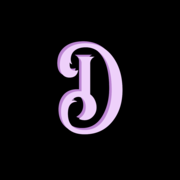
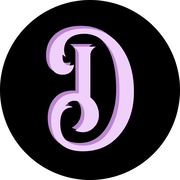
feat: improve mobile preview interactions and brand assets
- add swipe navigation to the interactive phone preview
- prevent preview steps from wrapping after completion
- refine hero overflow behavior on mobile
- replace the WhatsApp icon with a clearer brand glyph
- update the favicon set with the circular Dandy Dancers logo
- refresh the website plan to match the current product and copy

diff --git a/src/lib/components/PhonePreview.svelte b/src/lib/components/PhonePreview.svelte
@@ -6,11 +6,56 @@
     { name: 'Tito', age: 28, rating: '85%', price: '30', image: '/images/td-ia-04.png' },
     { name: 'Edu', age: 41, rating: '97%', price: '35', image: '/images/td-ia-05.png' }
   ];
-  function nextStep() { activeStep = (activeStep + 1) % copy.steps.length; }
+  let pointerStartX = 0;
+  let ignoreNextClick = false;
+
+  function nextStep() {
+    activeStep = Math.min(activeStep + 1, copy.steps.length - 1);
+  }
+
+  function previousStep() {
+    activeStep = Math.max(activeStep - 1, 0);
+  }
+
+  /** @param {PointerEvent} event */
+  function handlePointerDown(event) {
+    pointerStartX = event.clientX;
+    ignoreNextClick = false;
+    const phone = /** @type {HTMLButtonElement} */ (event.currentTarget);
+    phone.setPointerCapture(event.pointerId);
+  }
+
+  /** @param {PointerEvent} event */
+  function handlePointerUp(event) {
+    const distance = event.clientX - pointerStartX;
+    const phone = /** @type {HTMLButtonElement} */ (event.currentTarget);
+    phone.releasePointerCapture(event.pointerId);
+    if (Math.abs(distance) < 35) return;
+
+    ignoreNextClick = true;
+    if (distance < 0) nextStep();
+    else previousStep();
+  }
+
+  function handleClick() {
+    if (ignoreNextClick) {
+      ignoreNextClick = false;
+      return;
+    }
+    nextStep();
+  }
 </script>
 
 <div class="preview">
-  <button class="phone" type="button" onclick={nextStep} aria-label={copy.nextStep}>
+  <button
+    class="phone"
+    type="button"
+    onclick={handleClick}
+    onpointerdown={handlePointerDown}
+    onpointerup={handlePointerUp}
+    onpointercancel={() => (ignoreNextClick = false)}
+    aria-label={copy.nextStep}
+  >
     <span class="speaker" aria-hidden="true"></span>
     <span class="screen">
       {#if activeStep === 0}
@@ -33,7 +78,7 @@
         <span class="dancer-list">
           {#each dancers as dancer, index}
             <span class="dancer-row">
-              <span class="avatar"><img src={dancer.image} alt="" /></span>
+              <span class="avatar"><img src={dancer.image} alt="" draggable="false" /></span>
               <span class="dancer-name"><strong>{dancer.name}</strong><small>{copy.viewProfile}</small></span>
               <span class="dancer-stats"><strong>${dancer.price}/hr</strong><small>{copy.age} {dancer.age}</small><small>{copy.reviews} {dancer.rating}</small></span>
               <span class:selected={index === 1} class="check">{index === 1 ? '✓' : ''}</span>
@@ -62,7 +107,8 @@
 <style>
   .preview { display: grid; justify-items: center; }
   .label { margin: .75rem 0 0; color: var(--color-muted); font-size: .6875rem; }
-  .phone { position: relative; width: min(76vw, 18.25rem); aspect-ratio: 280 / 540; padding: 8px; overflow: hidden; border: 0; border-radius: 2.65rem; color: #1c1917; background: #1b1b1b; box-shadow: 0 1.25rem 3rem rgb(52 20 73 / 18%); cursor: pointer; font: inherit; text-align: left; }
+  .phone { position: relative; display: block; width: min(76vw, 18.25rem); aspect-ratio: 280 / 540; padding: 8px; overflow: hidden; border: 0; border-radius: 2.65rem; color: #1c1917; background: #1b1b1b; box-shadow: 0 1.25rem 3rem rgb(52 20 73 / 18%); cursor: grab; font: inherit; text-align: left; touch-action: pan-y; user-select: none; -webkit-user-select: none; }
+  .phone:active { cursor: grabbing; }
   .phone:focus-visible { outline: 3px solid var(--color-primary); outline-offset: .35rem; }
   .speaker { position: absolute; z-index: 2; top: 17px; left: 50%; width: 4.8rem; height: .55rem; border-radius: 999px; background: #1b1b1b; transform: translateX(-50%); }
   .screen { position: relative; display: flex; width: 100%; height: 100%; box-sizing: border-box; flex-direction: column; overflow: hidden; padding: 2.65rem .85rem 1.5rem; border-radius: 2.18rem; background: #fff; }
@@ -89,7 +135,7 @@
   .dancer-list { display: flex; margin-inline: -.85rem; flex-direction: column; border-top: 1px dashed #e9d5ff; }
   .dancer-row { display: grid; grid-template-columns: 2.25rem 1fr auto 1rem; gap: .55rem; align-items: center; padding: .65rem .85rem; border-bottom: 1px solid #f5f5f4; }
   .avatar { display: block; width: 2.25rem; height: 2.25rem; overflow: hidden; border: 1px solid #d6d3d1; border-radius: 50%; background: #f5f3ff; }
-  .avatar img { width: 100%; height: 100%; object-fit: cover; }
+  .avatar img { width: 100%; height: 100%; object-fit: cover; -webkit-user-drag: none; }
   .dancer-name, .dancer-stats { display: flex; flex-direction: column; }
   .dancer-name strong { font-size: .76rem; }
   .dancer-name small { margin-top: .18rem; color: #7f22fe; font-size: .52rem; text-decoration: underline; }

diff --git a/src/lib/components/SocialLinks.svelte b/src/lib/components/SocialLinks.svelte
@@ -43,9 +43,8 @@
               <path d="m4 7 8 6 8-6"></path>
             </svg>
           {:else if social.id === 'whatsapp'}
-            <svg viewBox="0 0 24 24" aria-hidden="true">
-              <path d="M20 11.5a8 8 0 0 1-11.8 7L4 20l1.5-4.1A8 8 0 1 1 20 11.5Z"></path>
-              <path d="M8.5 8.5c.4 2.9 2.1 4.6 5 5l1.3-1.3 2.1 1c-.5 1.9-1.8 2.8-3.7 2.4-3.4-.7-5.9-3.2-6.6-6.6-.4-1.9.5-3.2 2.4-3.7l1 2.1-1.5 1.1Z"></path>
+            <svg class="brand-icon" viewBox="0 0 24 24" aria-hidden="true">
+              <path d="M12.04 2a9.84 9.84 0 0 0-8.45 14.9L2 22l5.25-1.55A9.96 9.96 0 1 0 12.04 2Zm5.81 13.93c-.25.7-1.47 1.34-2.03 1.42-.52.08-1.18.11-1.9-.12-.44-.14-1-.32-1.72-.63-3.03-1.31-5-4.35-5.15-4.55-.15-.2-1.23-1.64-1.23-3.13 0-1.49.78-2.22 1.06-2.52.28-.3.61-.38.82-.38h.59c.19.01.44-.07.69.53.25.6.85 2.08.93 2.23.07.15.12.32.02.52-.1.2-.15.32-.3.5-.15.17-.32.38-.45.51-.15.15-.3.31-.13.61.18.3.77 1.28 1.67 1.81 1.16.7 2.13.92 2.43 1.02.3.1.47.08.65-.12.17-.2.75-.88.95-1.18.2-.3.4-.25.68-.15.27.1 1.75.83 2.05.98.3.15.5.22.57.35.08.12.08.72-.17 1.42Z"></path>
             </svg>
           {/if}
           <span class="label">{social.label}</span>
@@ -58,9 +57,8 @@
           title={`${social.label} — ${comingSoonLabel}`}
         >
           {#if social.id === 'whatsapp'}
-            <svg viewBox="0 0 24 24" aria-hidden="true">
-              <path d="M20 11.5a8 8 0 0 1-11.8 7L4 20l1.5-4.1A8 8 0 1 1 20 11.5Z"></path>
-              <path d="M8.5 8.5c.4 2.9 2.1 4.6 5 5l1.3-1.3 2.1 1c-.5 1.9-1.8 2.8-3.7 2.4-3.4-.7-5.9-3.2-6.6-6.6-.4-1.9.5-3.2 2.4-3.7l1 2.1-1.5 1.1Z"></path>
+            <svg class="brand-icon" viewBox="0 0 24 24" aria-hidden="true">
+              <path d="M12.04 2a9.84 9.84 0 0 0-8.45 14.9L2 22l5.25-1.55A9.96 9.96 0 1 0 12.04 2Zm5.81 13.93c-.25.7-1.47 1.34-2.03 1.42-.52.08-1.18.11-1.9-.12-.44-.14-1-.32-1.72-.63-3.03-1.31-5-4.35-5.15-4.55-.15-.2-1.23-1.64-1.23-3.13 0-1.49.78-2.22 1.06-2.52.28-.3.61-.38.82-.38h.59c.19.01.44-.07.69.53.25.6.85 2.08.93 2.23.07.15.12.32.02.52-.1.2-.15.32-.3.5-.15.17-.32.38-.45.51-.15.15-.3.31-.13.61.18.3.77 1.28 1.67 1.81 1.16.7 2.13.92 2.43 1.02.3.1.47.08.65-.12.17-.2.75-.88.95-1.18.2-.3.4-.25.68-.15.27.1 1.75.83 2.05.98.3.15.5.22.57.35.08.12.08.72-.17 1.42Z"></path>
             </svg>
           {/if}
           <span class="label">{social.label}</span>
@@ -113,6 +111,11 @@
   }
 
   svg .fill {
+    fill: currentColor;
+    stroke: none;
+  }
+
+  svg.brand-icon {
     fill: currentColor;
     stroke: none;
   }

diff --git a/src/app.html b/src/app.html
@@ -4,7 +4,7 @@
     <meta charset="utf-8" />
     <meta name="viewport" content="width=device-width, initial-scale=1" />
     <meta name="theme-color" content="#ffffff" />
-    <link rel="icon" href="%sveltekit.assets%/favicon.svg" type="image/svg+xml" />
+    <link rel="icon" href="%sveltekit.assets%/favicon.png" type="image/png" sizes="32x32" />
     <link rel="icon" href="%sveltekit.assets%/favicon.ico" sizes="any" />
     <link rel="apple-touch-icon" href="%sveltekit.assets%/apple-touch-icon.png" />
     %sveltekit.head%

diff --git a/src/lib/components/HeroSection.svelte b/src/lib/components/HeroSection.svelte
@@ -21,7 +21,7 @@
 <style>
   .hero {
     padding-block: clamp(3rem, 8vw, 6rem);
-    overflow: hidden;
+    overflow-x: clip;
     background: linear-gradient(180deg, var(--color-primary-200) 0%, #ffffff 80%);
   }
 

diff --git a/plan.md b/plan.md
@@ -1,85 +1,163 @@
-# Plan for the Landing Page
+# Dandy Dancers website plan
 
-So here is a descriptions of the sections we want to have for the Dandy Dancers kickstarting landing page.
-Base on this document crate the site, try to keep it component based so it can be easy to maintain and expand. Do both Spanish and English texts. Focus first on having the content, the we will work more on the style and polishing, same for the look and feel.
+## Purpose and source of truth
 
-## Sections
-1. Hero Section
-    - Title: Your Dance Partner Awaits
-    - Find professional dancers in Buenos Aires
+This document describes the current public website and its intended direction. It is a product and content brief, not the source of exact interface copy.
 
-2. Service and preview the platform.
-    A app like, interactive screen with a simple flow of what the service is:
-     a. Select your Milonga
-     b. Pick from available Dancers
-     c. Reservation created success screen
-    In the desktop version can be the right side of the screen shearing the 'above the fold' as being part of the Hero. This is not really 100% accurate depiction of the real app. A very small label should describe that.
-    For now just put a phone like svg, we will work the inner details, but you click on it and changes the content until the last screen, just put the header of the screen and leve the rest blank. Let try to use vanilla javascript for this.
+`src/lib/i18n/translations.js` is the source of truth for all user-facing English and Spanish text. When this plan and the translation file differ, follow the translation file and update this document to match the resulting product direction.
 
-3. What is a taxi dancer? Here you can have a CTA to meet the taxi dancers, but as we dont have the yet, here there can be a coming soon button.
+The website is a bilingual, component-based SvelteKit landing site for Dandy Dancers. The service is launching soon and will let adults book professional tango dance partners for milongas, lessons, and practice throughout Buenos Aires.
 
-4. Why? present the pain points
+## Audience and positioning
 
-5. About the team
+The primary audience is international tango travelers visiting Buenos Aires, especially women aged 40 and over who want to spend more of their limited time dancing and feel comfortable in the local tango scene.
 
-I am making the project.
-Talk about me. My bio.
+The service is open to customers aged 18 or older of every gender and dance level. Marketing may speak directly to the primary audience, but it must not imply that other adults are excluded.
 
-## Frases I like
+Use “professional tango dance partner” when describing the service in English. Avoid the standalone word “companion” when it could be misunderstood. Dandy Dancers is a professional tango and cultural service, not an escort or dating service.
 
-Never Sit Out a Dance
-The Dance Floor Is Waiting for You
-A Partner for Every Dance
-Professional Partners. Effortless Dancing.
-More Than a Dance—A Shared Moment
-Make Every Dance Unforgettable
-Real human experiences are long lasting memories
-Step In, Stand Out, Dance On
+## Languages and routes
 
-## Style
+The current public languages are English and Spanish:
 
-Colors of tha platform to be set as css variables and consumed in components from those variables.
-primary: #8E4CAB;
-primary-200: #EED0FA;
-primary-900: #1A0622;
+- `/en/`: English landing page
+- `/es/`: Spanish landing page
+- `/en/taxi-dancer-registration/`: English taxi-dancer application page
+- `/es/taxi-dancer-registration/`: Spanish taxi-dancer application page
 
-## Pain points of the customer to address.
+The root route sends visitors to English. All public copy must remain natural and equivalent in intent across English and Spanish rather than being translated word for word.
 
-This must be a summarized, or maybe they can be like title that are collapsed and you can expand.
+## Landing-page sections
 
-Main issue:
-- Wasting your night, time, money and holiday and not finding that experience you where looking for.
-- You want to spend less time sitting and more time dancing good.
+### 1. Header
 
-Problems?
-1. Not being known in the scene: Feel part of the dance scene
-- Not having dance invitations
-- Not dancing in the whole night or dancing really little
-- Feeling out of the party
-- You want to have someone to guide you though the experience
+The header contains:
 
-2. Quality of the dancers: Dance at the level you want
-- You don't get to enjoy enough with the people that invites you.
-- You feel like they are not at your level
-- You want to level up your dance in milongas but the people that invites you are not up to your standards.
-- You want a partner who matches your rhythm and skill level.
+- The Dandy Dancers logo linked to the current language homepage.
+- Instagram, email, and WhatsApp contact links.
+- An English/Spanish language selector.
 
-3. On Classes: Get more from classes
-- Issues finding partner for a class
-- You need someone that can translate a class while taking it with him/her.
+Contact labels, accessibility text, and the prefilled WhatsApp message come from the translation file.
 
-4. Socializing: Connect with the local community
-- You want to meet locals but find it difficult, a local dancer can help you integrate.
-- You feel a bit nervous going alone to milongas.
+### 2. Hero and platform preview
 
-5. Practice: Practice in a real setting
-- You’d like to practice outside your regular lessons.
-- You struggle to remember techniques in a live setting, someone that you feel confortable to ask in the middle of the tanda can be helpful.
-- You want to try a new things without feeling judged.
-- You want more confidence before a party, wedding, or competition.
+The hero leads with the promise that the visitor's best tandas await:
 
-6. Confort: Enjoy comfort and peace of mind
-- You’d like reliable, respectful company for the entire event.
-- You want personalized guidance while still having fun.
-- You want to feel safe and comfortable on the dance floor.
-- You’re traveling and want a trusted local dance partner for your limited time.
+- English title: “Your Best Tandas Await”
+- Spanish title: “Tus mejores tandas te esperan”
+- English subtitle: “Book a professional dancer to go dancing.”
+- Spanish subtitle: “Contratá un bailarín profesional para salir a bailar.”
+
+The supporting message focuses on spending less time sitting and more time dancing while enjoying the tango experience the traveler came to Buenos Aires for.
+
+The hero includes an interactive phone-style preview. It is illustrative and must not be presented as a fully accurate or currently bookable product. Visitors can click, tap, swipe, or use the step controls to move through three stages:
+
+1. Select a milonga.
+2. Pick an available dancer.
+3. See a reservation-created confirmation.
+
+The current preview includes example milongas, dancer profiles, ages, illustrative ratings and hourly prices, candidate status, a selected dancer, and confirmation details. These values are interface mock data, not public offers, verified reviews, or live availability. Any change to this flow must update the localized preview text in `src/lib/i18n/translations.js`.
+
+### 3. Taxi-dancer service
+
+This section explains that a taxi dancer is a professional dancer who can be booked for a milonga, class, or practice. It should emphasize that the dancer can also help a visitor:
+
+- Feel comfortable in the local tango scene.
+- Understand local customs and dance-floor codes.
+- Make better use of limited time in Buenos Aires.
+
+The customer-facing dancer directory remains marked “coming soon.” A separate CTA links prospective taxi dancers to the registration route.
+
+### 4. Why Dandy Dancers
+
+The section is organized around the promise “Never sit out a dance” / “No te quedes sin bailar.” It frames the visitor's time in Buenos Aires as valuable and shows how a trusted dancer can turn uncertainty into the dance experience they wanted.
+
+The six benefit themes are:
+
+1. Feel part of the dance scene.
+2. Dance at the level you want.
+3. Get more from classes.
+4. Connect with the local community.
+5. Practice in a real setting.
+6. Enjoy comfort and peace of mind.
+
+Together, these themes address the original customer concerns:
+
+- Attending a milonga without being known or invited to dance.
+- Spending too much of a night sitting instead of dancing.
+- Finding dancers whose style and qualities match the customer's preferences.
+- Finding a reliable partner for lessons and help understanding a teacher when translation is needed.
+- Feeling nervous about attending a milonga alone or meeting the local community.
+- Practicing techniques in a real social setting without feeling judged.
+- Having reliable, respectful, personalized guidance during a limited visit.
+
+Keep this section concise and benefit-led. The current presentation does not require expandable or collapsed pain-point lists.
+
+### 5. Founder
+
+The current section is “About the founder” / “Sobre el fundador.” It explains that Dandy Dancers is an independent project being created by its founder to make Buenos Aires tango experiences easier to access, more comfortable, and more memorable.
+
+The complete founder biography and wider team story are still pending. Do not invent them. When the approved biography is available, add it to both languages and update the relevant SEO and LLM-facing documentation.
+
+### 6. Footer
+
+The footer contains:
+
+- “More than a dance—a shared moment.” / “Más que un baile: un momento compartido.”
+- Instagram, email, and WhatsApp links.
+- The current under-construction status.
+
+## Taxi-dancer registration page
+
+The registration page is for dancers applying to join Dandy Dancers, not for travelers booking a dancer.
+
+It should:
+
+- Explain that Dandy Dancers wants to learn about and evaluate the applicant's profile.
+- State that the form takes approximately 10 minutes.
+- Explain that selected applicants will be contacted.
+- Link to the configured external application form.
+
+This route is intentionally excluded from search indexing and from the public sitemap unless that policy is explicitly changed.
+
+## Content and trust rules
+
+- Keep the site status as “launching soon” or “under construction” until customer booking is genuinely available.
+- Do not present mock preview prices, ratings, reviews, dancers, dates, venues, or availability as verified business facts.
+- Do not add real prices, reviews, guarantees, policies, launch dates, phone numbers, or addresses until they are confirmed and publicly supported.
+- Keep contact details, service facts, structured data, and LLM-facing files consistent with the website.
+- Track missing business and trust information in `SEO-PENDING.md`.
+
+## SEO and LLM discovery
+
+SEO maintenance requirements are documented in `AGENTS.md`. The site currently includes:
+
+- Localized titles and meta descriptions.
+- Canonical and reciprocal `hreflang` links.
+- Open Graph and Twitter metadata.
+- JSON-LD for the organization, website, pages, and service.
+- `robots.txt` and a bilingual sitemap.
+- Concise and extended LLM descriptions in `static/llms.txt` and `static/llms-full.txt`.
+
+Update these resources whenever public routes, business facts, launch status, supported languages, or service details change.
+
+## Visual direction
+
+The interface uses shared CSS variables and reusable Svelte components. Core brand colors include:
+
+- Primary: `#8E4CAB`
+- Primary light: `#EED0FA`
+- Primary dark: `#1A0622`
+
+Maintain a welcoming, refined tango identity, responsive layouts, accessible controls, visible keyboard focus, and meaningful alternative text. The phone preview should remain clearly labeled as illustrative.
+
+## Current official business facts
+
+- Brand: Dandy Dancers
+- Founder: Franco Cespi
+- Founded: 2026
+- Service area: all of Buenos Aires, Argentina
+- Status: launching soon
+- Email: `contact.dandydancers@gmail.com`
+- Instagram: `https://www.instagram.com/dandydancers/`
+- WhatsApp: `https://wa.me/5491155284015`
